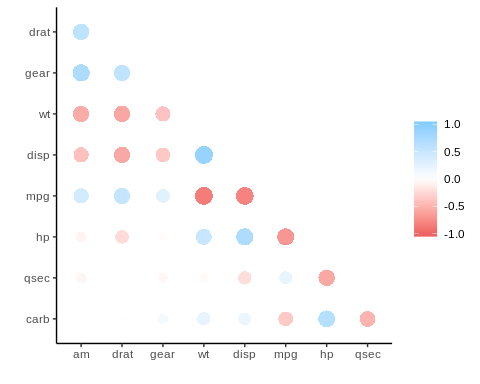
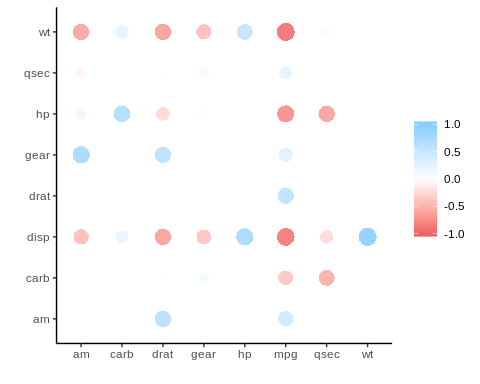
Updates readme

diff --git a/README.md b/README.md
@@ -142,17 +142,18 @@ x <- datasets::mtcars %>%
 #>   reorder.hclust gclus
        
 fashion(x)
-#>   rowname   am drat gear   wt disp  mpg   hp qsec carb
-#> 1      am                                             
-#> 2    drat  .71                                        
-#> 3    gear  .79  .70                                   
-#> 4      wt -.69 -.71 -.58                              
-#> 5    disp -.59 -.71 -.56  .89                         
-#> 6     mpg  .60  .68  .48 -.87 -.85                    
-#> 7      hp -.24 -.45 -.13  .66  .79 -.78               
-#> 8    qsec -.23  .09 -.21 -.17 -.43  .42 -.71          
-#> 9    carb  .06 -.09  .27  .43  .39 -.55  .75 -.66
+#>   rowname  mpg drat   am gear qsec carb   hp   wt disp
+#> 1     mpg                                             
+#> 2    drat  .68                                        
+#> 3      am  .60  .71                                   
+#> 4    gear  .48  .70  .79                              
+#> 5    qsec  .42  .09 -.23 -.21                         
+#> 6    carb -.55 -.09  .06  .27 -.66                    
+#> 7      hp -.78 -.45 -.24 -.13 -.71  .75               
+#> 8      wt -.87 -.71 -.69 -.58 -.17  .43  .66          
+#> 9    disp -.85 -.71 -.59 -.56 -.43  .39  .79  .89
 rplot(x)
+#> Don't know how to automatically pick scale for object of type noquote. Defaulting to continuous.
 ```
 
 ![](tools/readme/combination-1.png)<!-- -->
